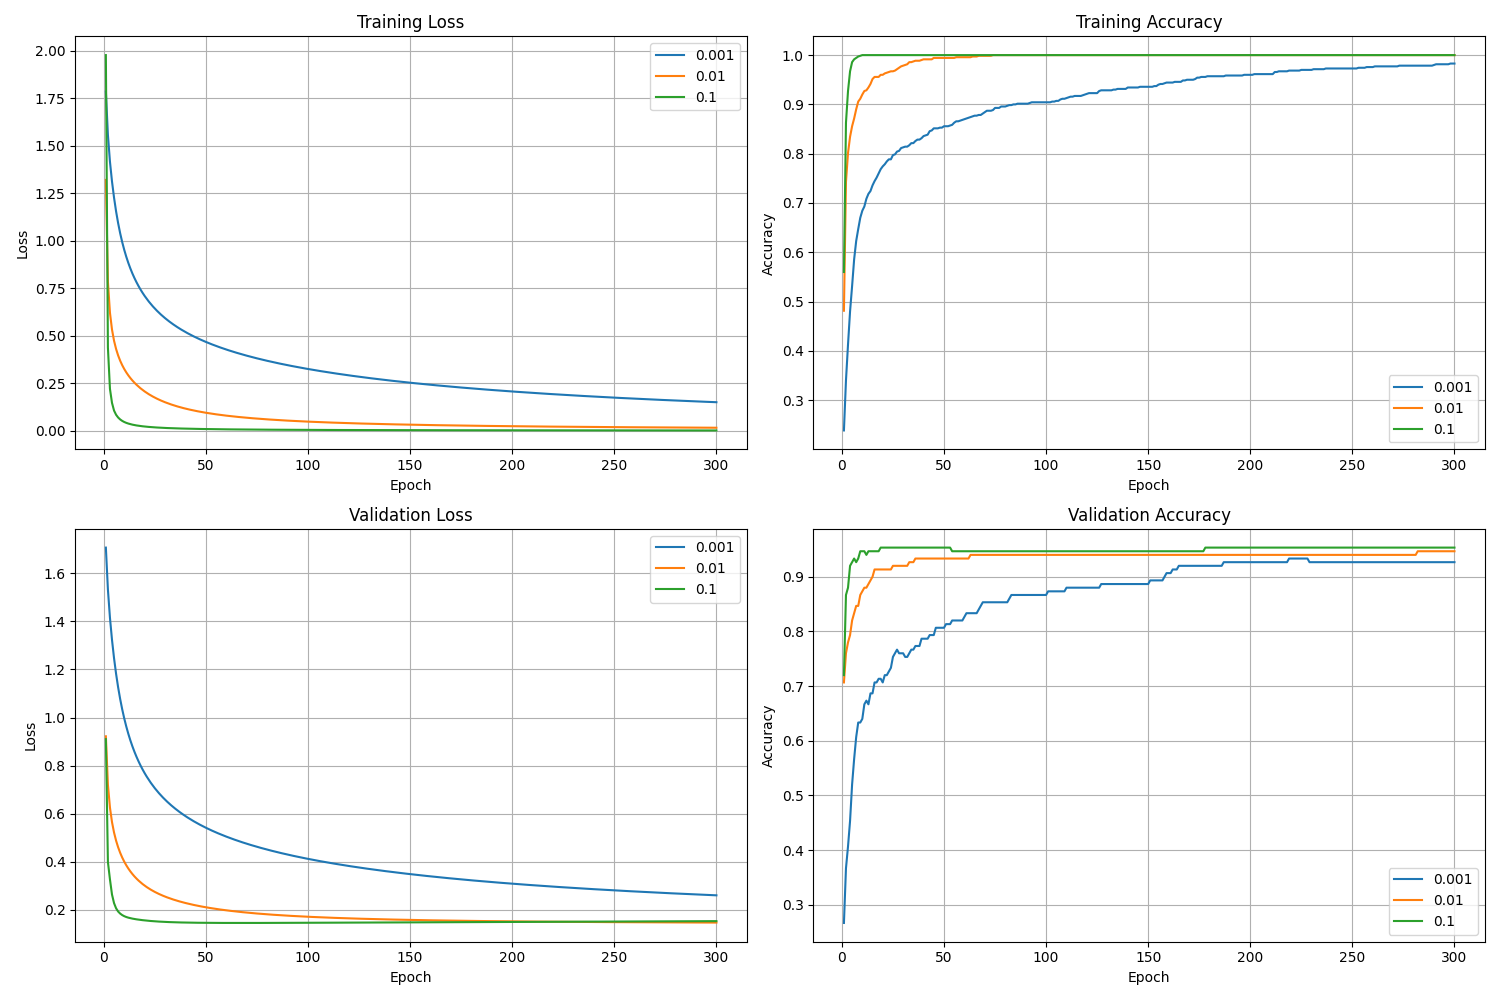
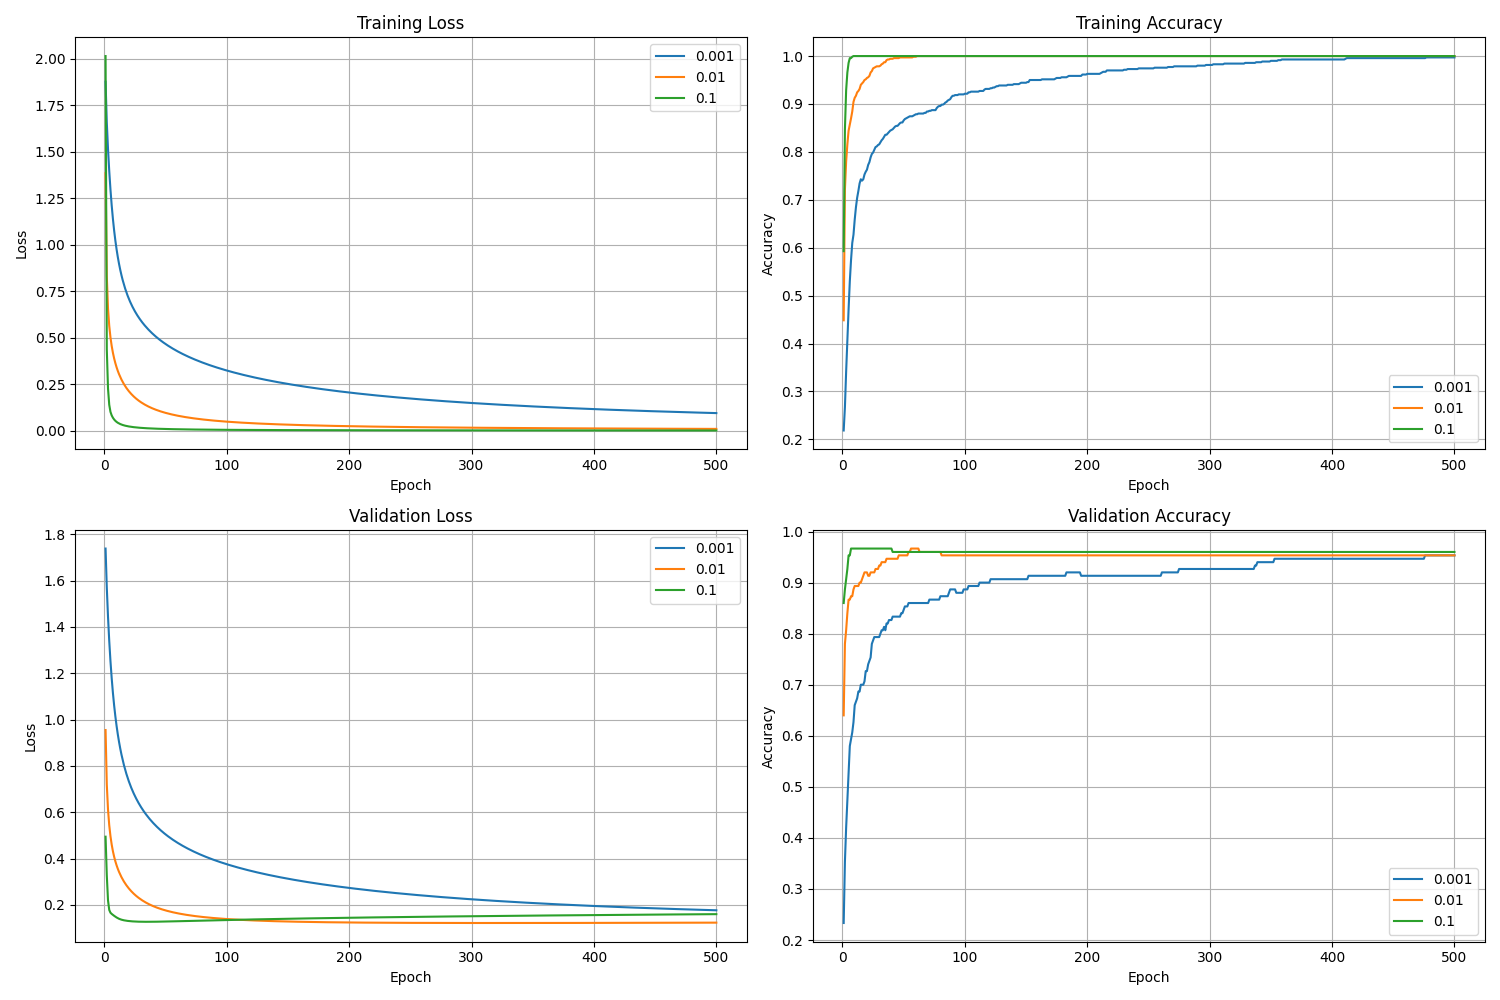
for figures

diff --git a/main.py b/main.py
@@ -648,7 +648,7 @@ if __name__ == "__main__":
     }
 
     # Put this to True to use accelerated model for all tasks
-    accelerated = False
+    accelerated = True
 
     # autopep8: off
     print("*** Environment Check ***"); env_check()
@@ -658,10 +658,41 @@ if __name__ == "__main__":
     if accelerated: print("Accelerate Experiments"); model_gen_function = generate_accelerated_model
     print("*** Task 4 ***"); train_ds, val_ds, test_ds = task_4_prepare_dataset()
     if accelerated: print("Accelerate Experiments"); train_ds, val_ds, test_ds = task_9_generate_acceleated_datasets()
+    train_configuration = {
+        'max_epoch': 500,
+        'min_delta': 0.001,
+        'patience': 5,
+        'tensorboard': False,
+        'save_model': True,
+        'early_stopping': True,
+        'checkpoint_best': True,
+        'seed': 42,
+    }
     print("*** Task 5 ***"); task_5_model, task_5_history = task_5_compile_and_train(model=model_gen_function(), train_ds=train_ds, val_ds=val_ds, **train_configuration)
     print("*** Task 6 ***"); task_6_plot_metrics([('Task 5', task_5_history)], 'Task 6')
-    print("*** Task 7 ***"); task_7_models, task_7_histories = task_7_expriment_with_different_learning_rates(model_gen_function=model_gen_function, task_5_history=task_5_history, train_ds=train_ds, val_ds=val_ds, **train_configuration)
-    print("*** Task 8 ***"); task_7_models.append(('0.01', task_5_model)); best_model_str_task_7, best_model_task_7 = select_best_model(models=task_7_models, dataset=test_ds); print(f'BEST MODEL: learning_rate = {best_model_str_task_7}'); task_8_expriment_with_different_momentums(model_gen_function=model_gen_function, train_ds=train_ds, val_ds=val_ds, learning_rate=float(best_model_str_task_7), **train_configuration)
+    train_configuration = {
+        'max_epoch': 500,
+        'min_delta': 0.001,
+        'patience': 5,
+        'tensorboard': False,
+        'save_model': True,
+        'early_stopping': False,
+        'checkpoint_best': True,
+        'seed': 42,
+    }
+    print("*** Task 7 ***"); task_7_models, task_7_histories = task_7_expriment_with_different_learning_rates(model_gen_function=model_gen_function, train_ds=train_ds, val_ds=val_ds,  **train_configuration)
+    train_configuration = {
+        'max_epoch': 150,
+        'min_delta': 0.001,
+        'patience': 5,
+        'tensorboard': False,
+        'save_model': True,
+        'early_stopping': False,
+        'checkpoint_best': True,
+        'seed': 42,
+    }
+    
+    print("*** Task 8 ***"); best_model_str_task_7, best_model_task_7 = select_best_model(models=task_7_models, dataset=test_ds); print(f'BEST MODEL: learning_rate = {best_model_str_task_7}'); task_8_expriment_with_different_momentums(model_gen_function=model_gen_function, train_ds=train_ds, val_ds=val_ds, learning_rate=float(best_model_str_task_7),  **train_configuration)
     print("*** Task 9 ***"); accelerated_train_ds, accelerated_val_ds, accelerated_test_ds = task_9_generate_acceleated_datasets()
     print("*** Task 10 ***"); task_10_models, task_10_histories = task_10_train_on_accelerated_datasets(train_ds=accelerated_train_ds, val_ds=accelerated_val_ds, learning_rate=float(best_model_str_task_7), **train_configuration)
     # autopep8: on
